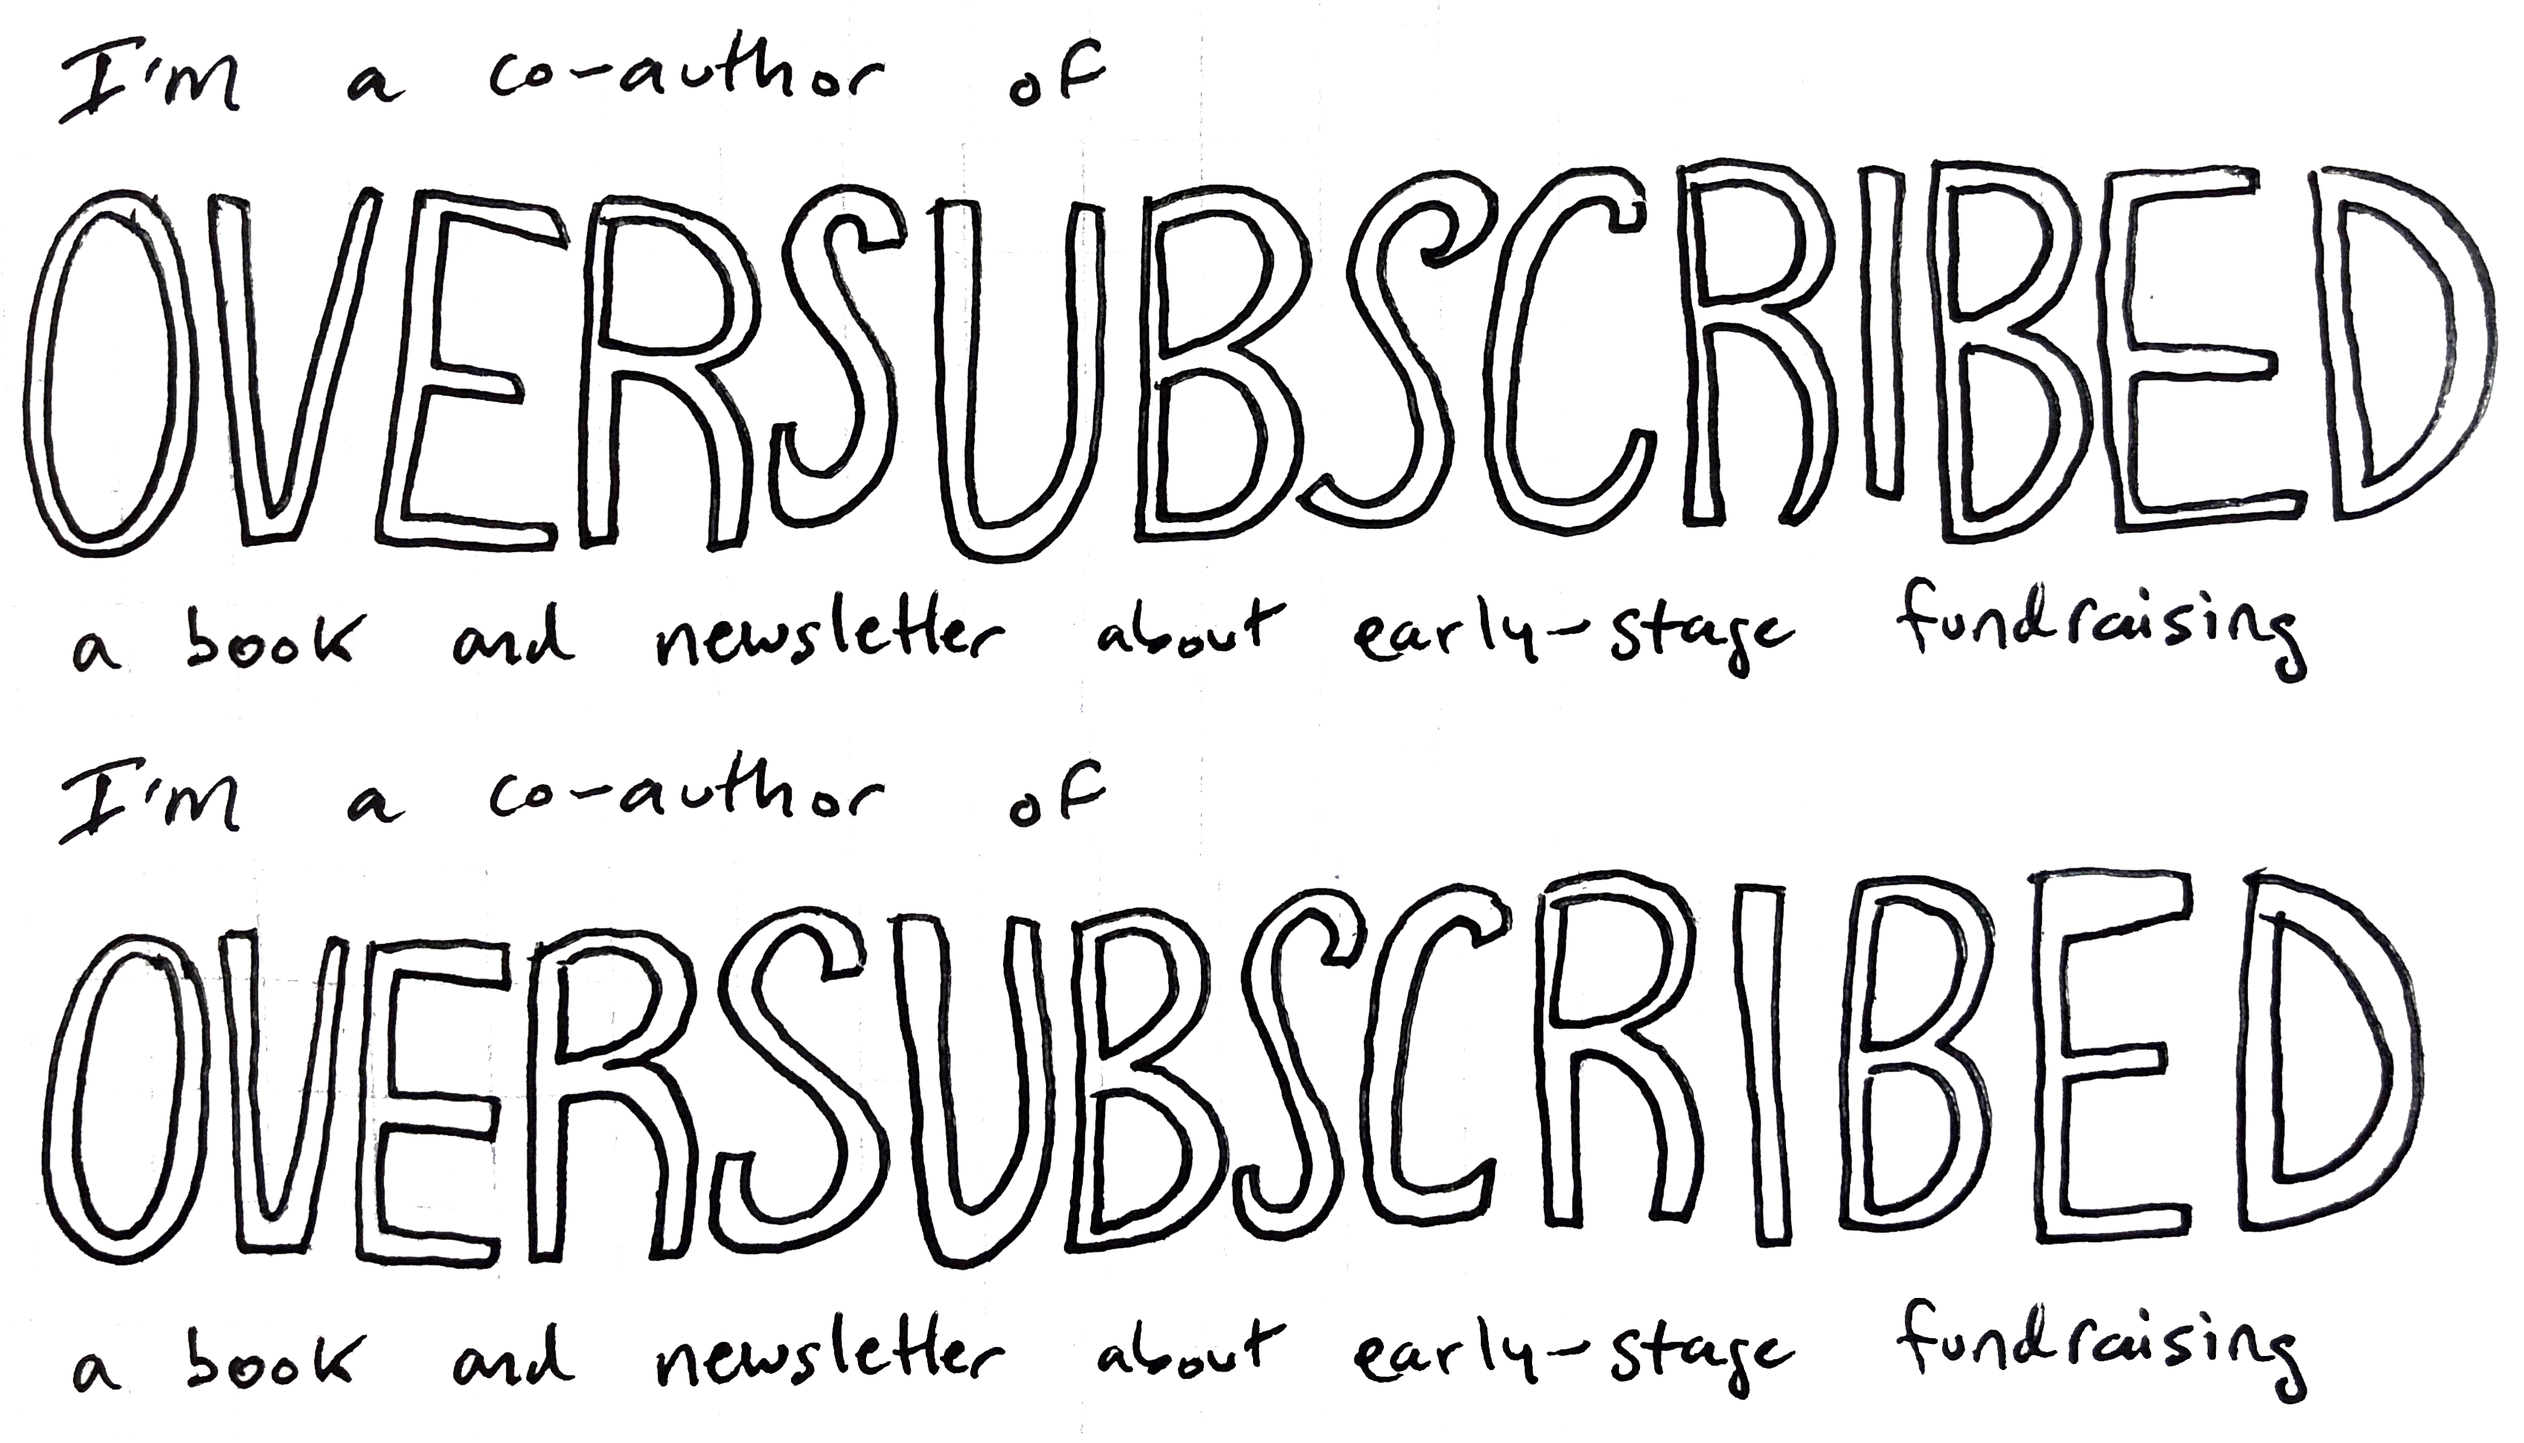
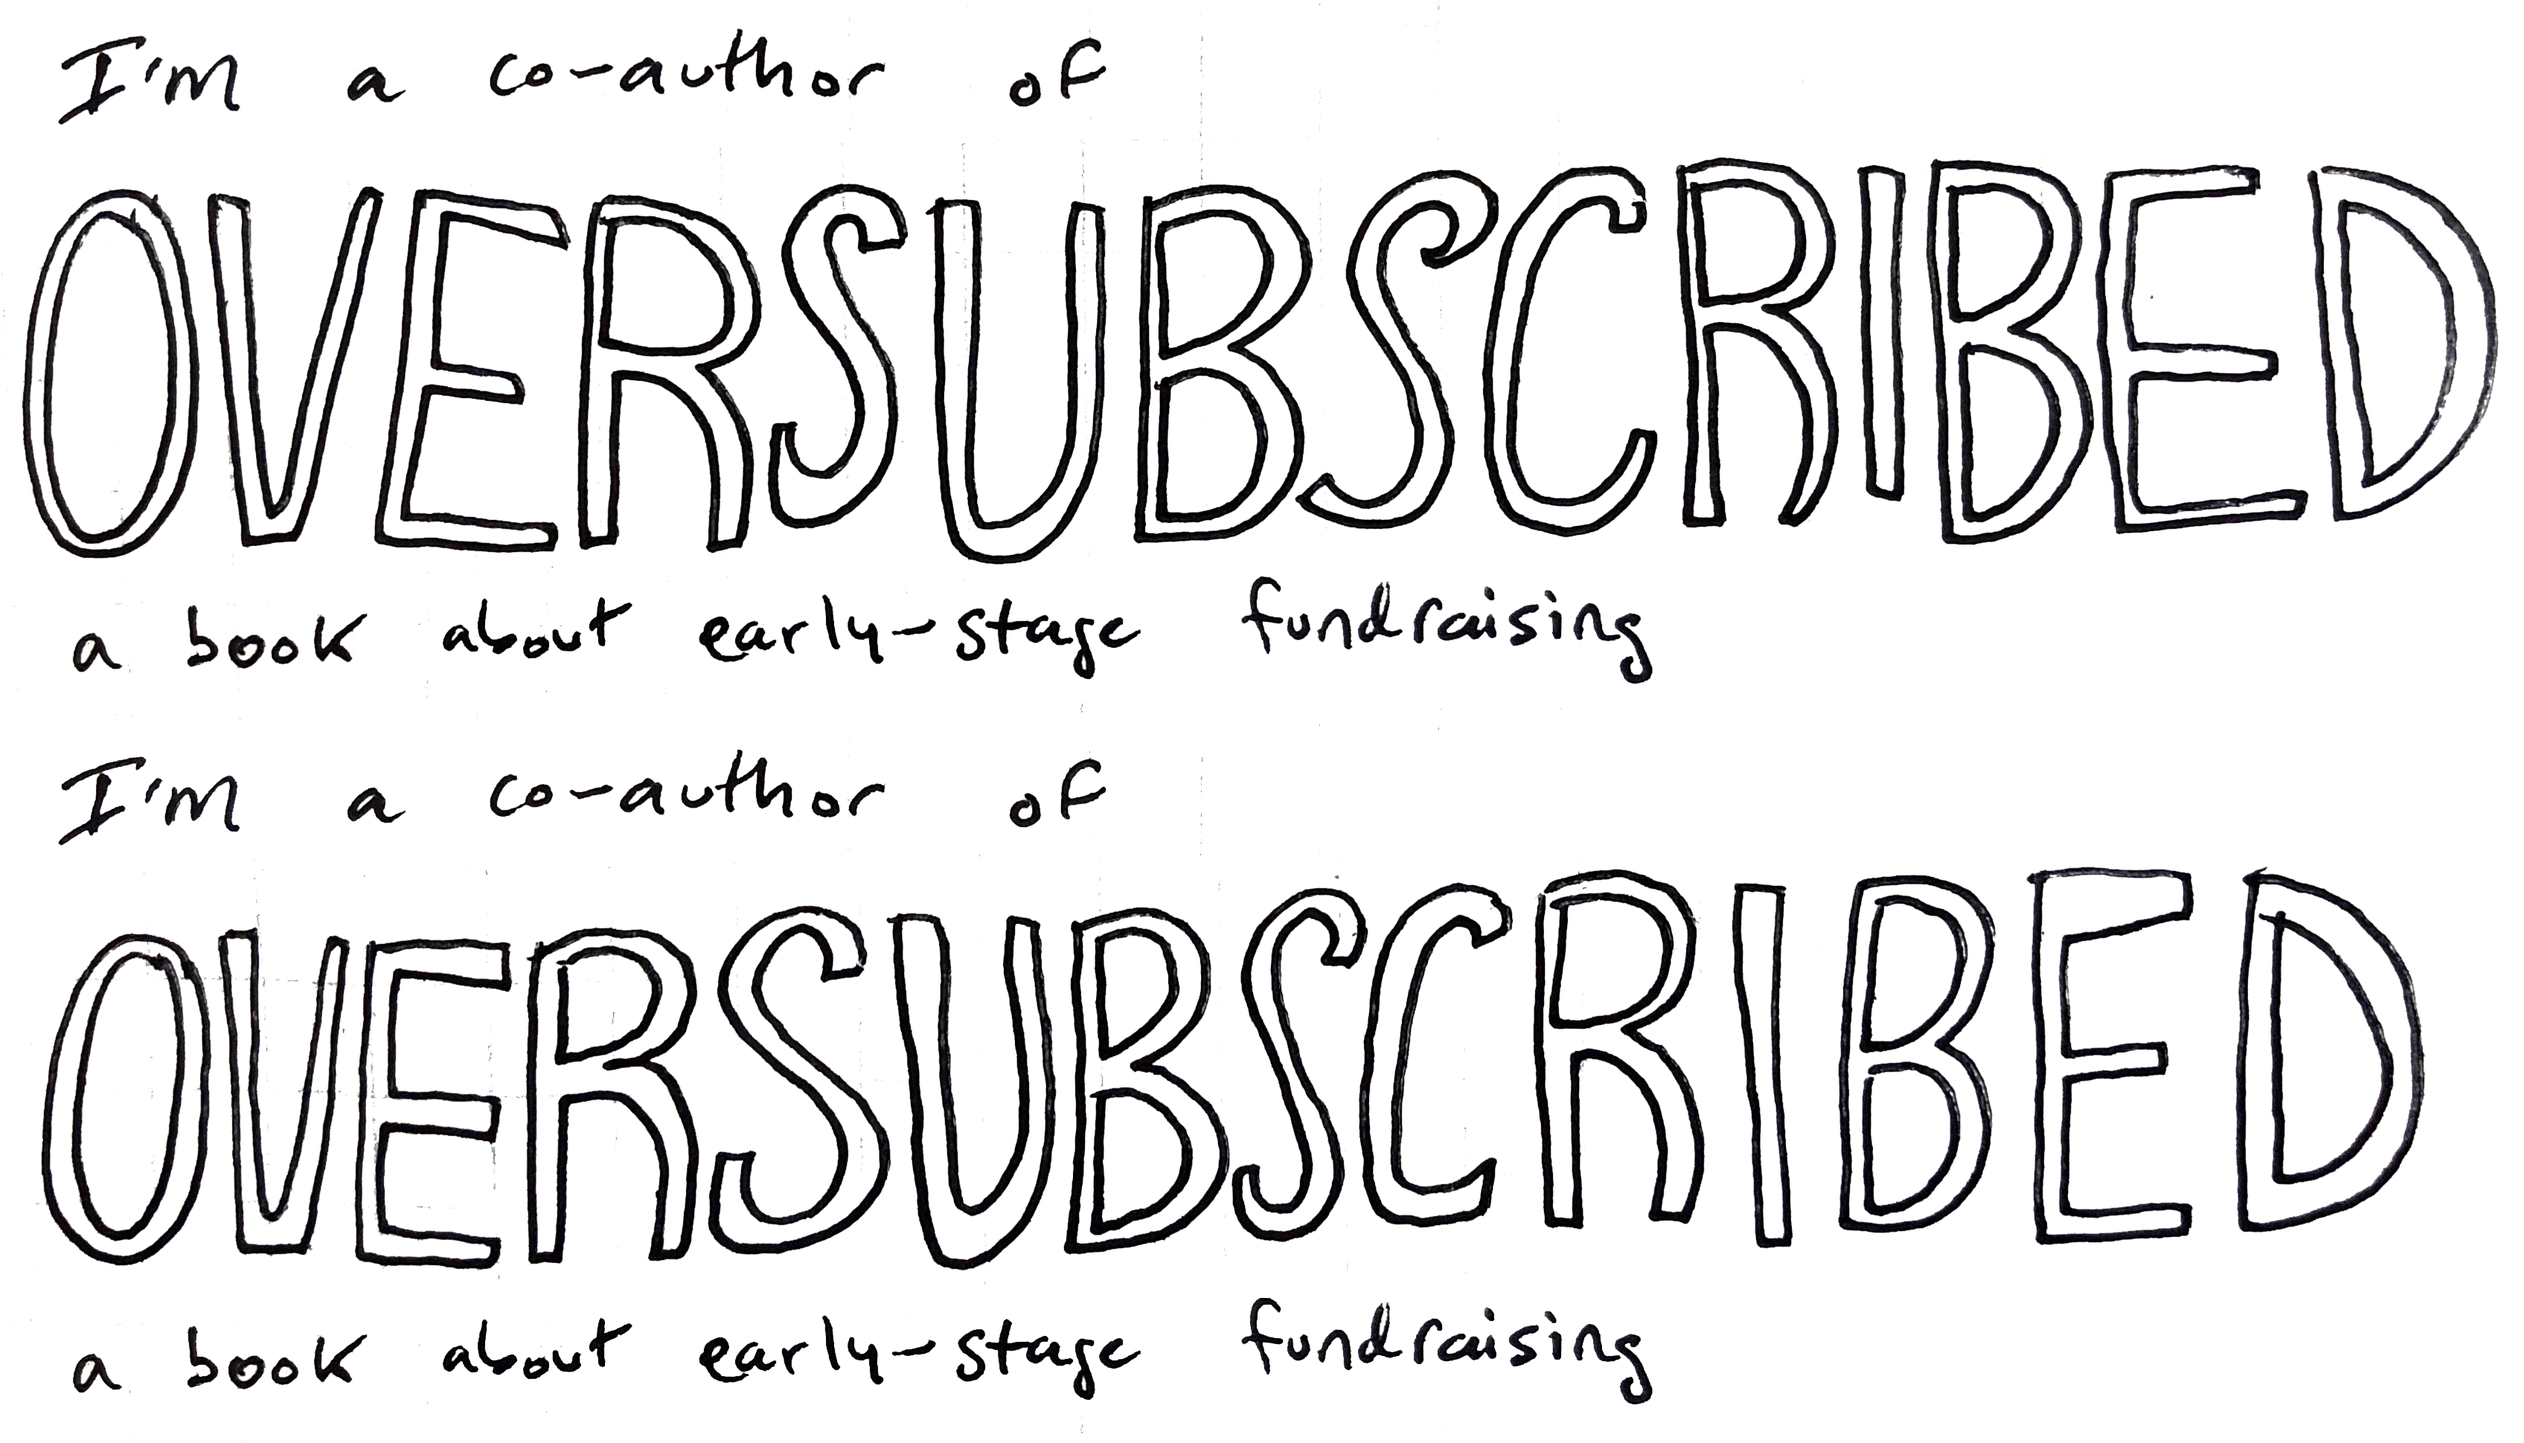
add brand work, remove o newsletter

diff --git a/index.html b/index.html
@@ -33,12 +33,11 @@
     		<div class="about-me">
     			<img src="img/me.png" class="about-me--me" alt="drawing of me">
     			<div class="about-me--about-me-text"><a href="about/" class="full-image-link">Learn some more about me</a></div>
-    		</div><!--about-me-->
+    		</div><!--about-me-->   
     		
-    		<div class="oversubscribed">
-    			<a href="https://oversubscribed.club" class="full-image-link">I'm the co-author of Oversubscribed, a book and newsletter about early-stage fundraising.</a>
-    		</div><!--oversubscribed-->
-    	
+    		<div class="brand-and-design-work">
+    		    <a href="mailto:max@maxnuss.com" class="full-image-link">You can hire me to do brand and design work</a>
+    		</div><!--brand-->
 			
 			<div class="essay-talk-box">
 			  <div class="essay-talk-box--essay">
@@ -50,9 +49,13 @@
 			  </div><!--essay-->
 			</div><!--essay-talk-box-->
 
+    		<div class="oversubscribed">
+    			<a href="https://oversubscribed.club/book" class="full-image-link">I'm the co-author of Oversubscribed, a book about early-stage fundraising.</a>
+    		</div><!--oversubscribed-->
+
     	  <div class="new-yorker">
     	  	<a href="newyorker/" class="full-image-link">I once won the New Yorker Cartoon Caption Contest.</a>
-    	  </div><!--brand-and-design-work-->
+    	  </div><!--NYer-->
 
   			<img src="img/cool-hr.png" class="home-block--cool-hr-2">
 

diff --git a/style.css b/style.css
@@ -217,6 +217,10 @@ body {
 .notable-projects-box--charlie-link:hover {
 	background-position: bottom left;
 	}
+	
+.brand-and-design-work:hover {
+    background-position: bottom 1px left;
+}
 
 .home-block--signature {
 	float: right;
